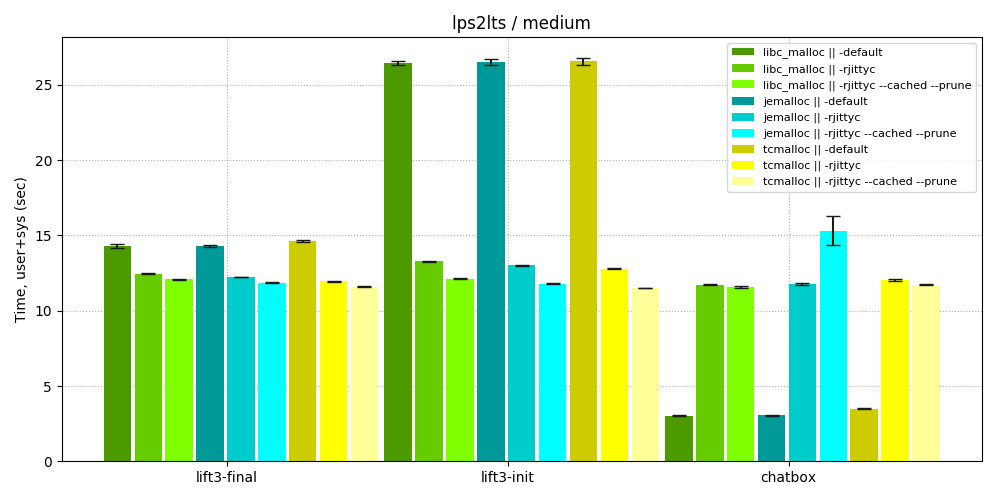
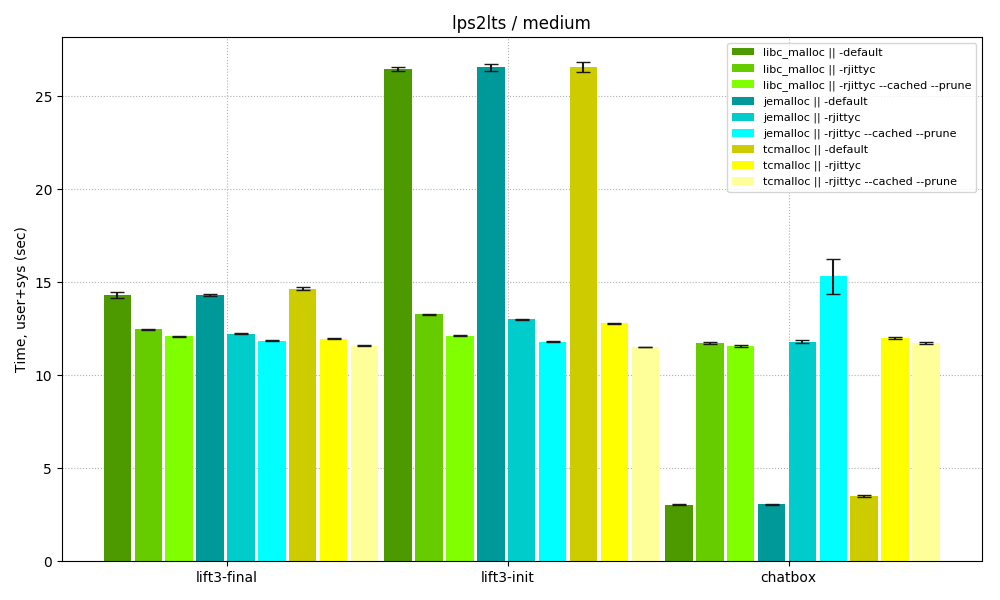
increase plot height for allocators benchmark

diff --git a/benchmarks/lps2lts_allocators/plot.py b/benchmarks/lps2lts_allocators/plot.py
@@ -5,7 +5,7 @@ import matplotlib.pyplot as plt
 import pprint
 from matplotlib import rcParams
 rcParams.update({'figure.autolayout': True})
-rcParams.update({'figure.figsize': (10,5)})
+rcParams.update({'figure.figsize': (10, 6)})
 
 resultsdir = sys.argv[1]
 
@@ -29,16 +29,12 @@ allocators = ['default', 'jemalloc', 'tcmalloc']
 flags      = ['-default', '-rjittyc', '-rjittyc --cached --prune']
 tests      = [d.split('.')[0] for d in os.listdir(resultsdir)]
 
-print "FILES: ", tests
 data = {}
 size = resultsdir.split('-')[1]
-
-print "SIZE %s" % size
 
 def print_data():
     pp = pprint.PrettyPrinter(depth=5, width=120)
     pp.pprint(data)
-
 
 
 for allocator in allocators:
